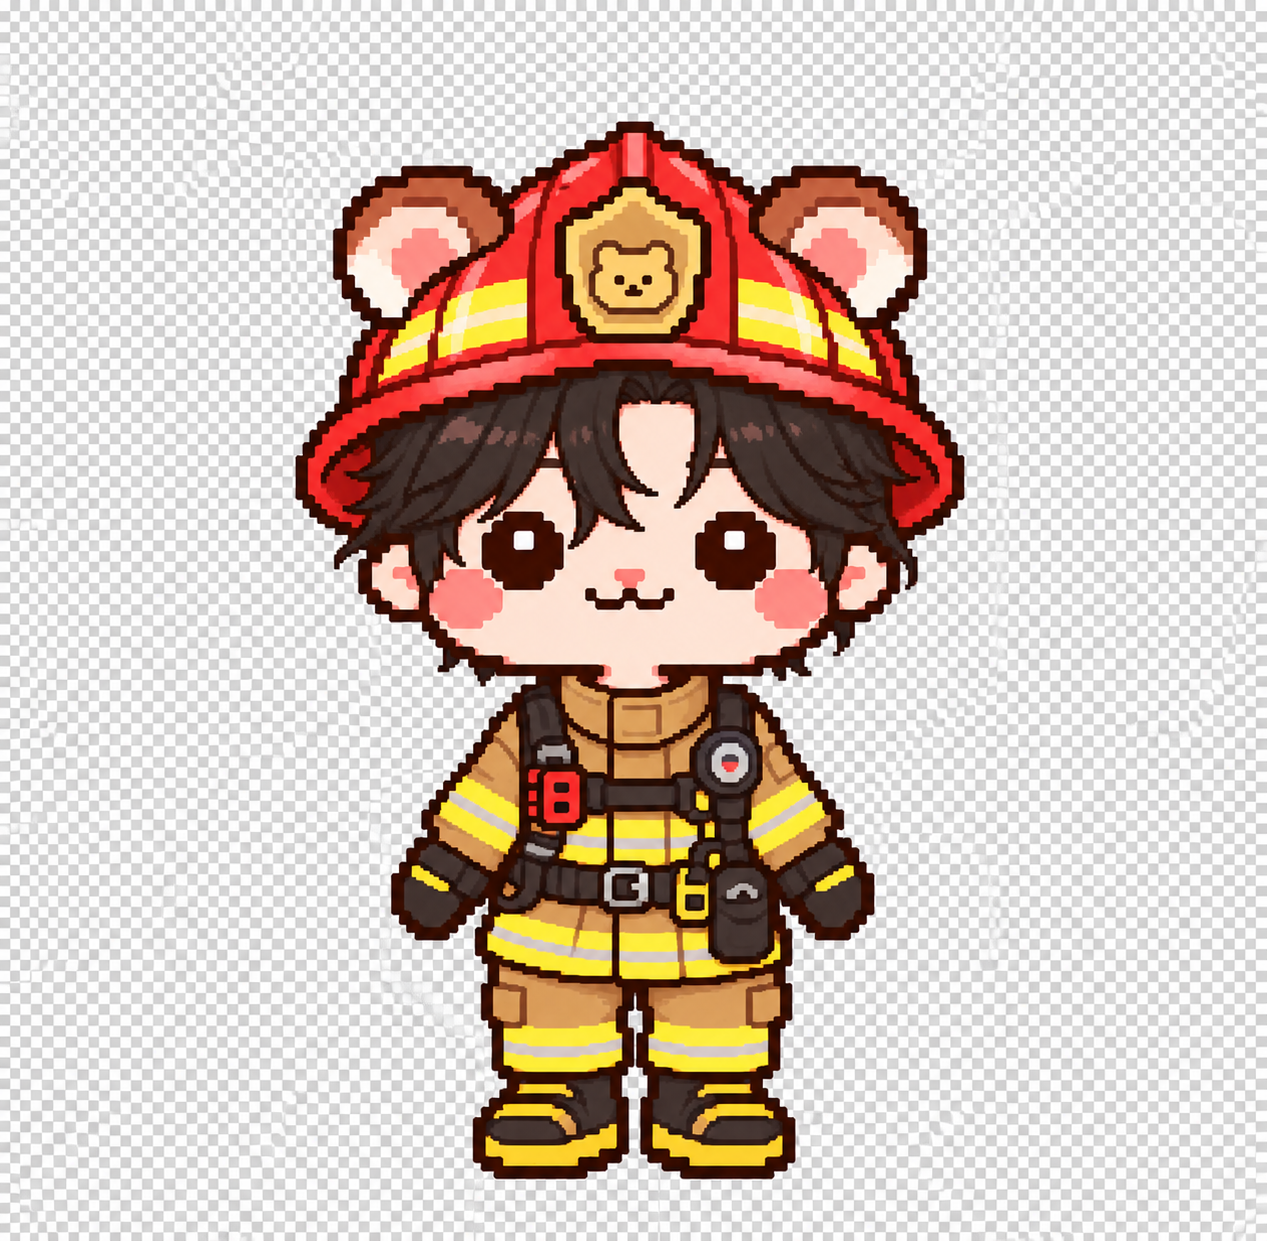
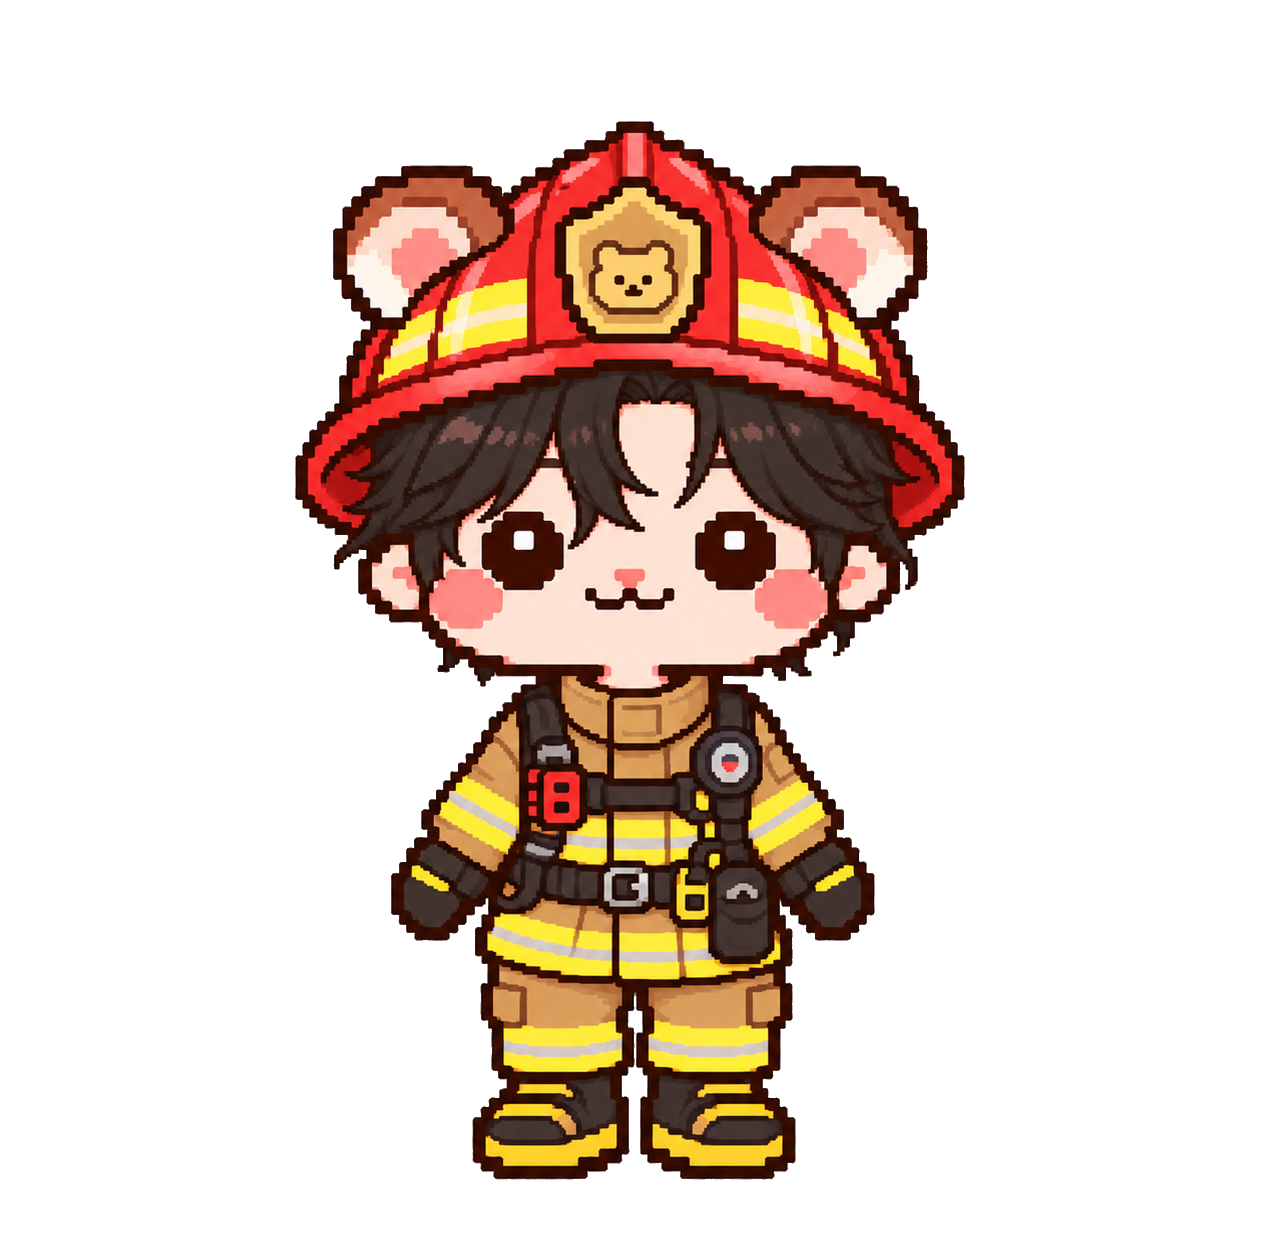
Make male character backgrounds transparent and remeasure art margins
- man/character (3), (4), (12), (15): remove baked-in fake checkerboard;
  (8): remove solid black background. Border flood-fill keeps colours
  inside the outline (white shirt, grey plaid, black hoodie)
- Regenerate character_art_insets for all 66 woman/ and 17 man/ images so
  male characters also hug walls/floor and get a tight selection outline
- Add tool/character_art scripts (margin measurement, table generator,
  background removal) for future art updates

diff --git a/tool/character_art/remove_background.swift b/tool/character_art/remove_background.swift
@@ -1,0 +1,78 @@
+import Foundation
+import CoreGraphics
+import ImageIO
+import UniformTypeIdentifiers
+// usage: rmbg in.png out.png tolerance pockets(0/1)
+let a = CommandLine.arguments
+let inURL = URL(fileURLWithPath: a[1]), outURL = URL(fileURLWithPath: a[2])
+let tol = Int(a[3]) ?? 30
+let pockets = a.count > 4 && a[4] == "1"
+let src = CGImageSourceCreateWithURL(inURL as CFURL, nil)!
+let img = CGImageSourceCreateImageAtIndex(src, 0, nil)!
+let w = img.width, h = img.height
+var d = [UInt8](repeating: 0, count: w*h*4)
+let ctx = CGContext(data: &d, width: w, height: h, bitsPerComponent: 8, bytesPerRow: w*4, space: CGColorSpaceCreateDeviceRGB(), bitmapInfo: CGImageAlphaInfo.premultipliedLast.rawValue)!
+ctx.draw(img, in: CGRect(x: 0, y: 0, width: w, height: h))
+// background colour clusters from the border
+var buckets: [Int: (Int, Int, Int, Int)] = [:]
+func addB(_ i: Int) { let r = Int(d[i]), g = Int(d[i+1]), b = Int(d[i+2]); let k = (r/24)<<16 | (g/24)<<8 | (b/24); let v = buckets[k] ?? (0,0,0,0); buckets[k] = (v.0+r, v.1+g, v.2+b, v.3+1) }
+var nb = 0
+for x in 0..<w { addB(x*4); addB(((h-1)*w+x)*4); nb += 2 }
+for y in 0..<h { addB(y*w*4); addB((y*w+w-1)*4); nb += 2 }
+let centers = buckets.values.filter { $0.3 * 100 / nb >= 8 }.map { ($0.0/$0.3, $0.1/$0.3, $0.2/$0.3) }
+FileHandle.standardError.write("centers \(centers)\n".data(using: .utf8)!)
+func dist(_ i: Int, _ c: (Int,Int,Int)) -> Int { max(abs(Int(d[i])-c.0), abs(Int(d[i+1])-c.1), abs(Int(d[i+2])-c.2)) }
+let neutralOnly = a.count > 5 ? Int(a[5]) ?? -1 : -1
+func isBg(_ p: Int) -> Bool { let i = p*4
+  if neutralOnly >= 0 { let mx = max(d[i], d[i+1], d[i+2]), mn = min(d[i], d[i+1], d[i+2]); if Int(mx) - Int(mn) > neutralOnly { return false } }
+  return centers.contains { dist(i, $0) <= tol } }
+func nearest(_ p: Int) -> Int { let i = p*4; var best = 0, bd = 999; for (k, c) in centers.enumerated() { let dd = dist(i, c); if dd < bd { bd = dd; best = k } }; return best }
+var removed = [Bool](repeating: false, count: w*h)
+var stack: [Int] = []
+func seed(_ p: Int) { if !removed[p] && isBg(p) { removed[p] = true; stack.append(p) } }
+for x in 0..<w { seed(x); seed((h-1)*w+x) }
+for y in 0..<h { seed(y*w); seed(y*w+w-1) }
+func flood() { while let p = stack.popLast() { let x = p % w, y = p / w
+  if x > 0 { seed(p-1) }; if x < w-1 { seed(p+1) }; if y > 0 { seed(p-w) }; if y < h-1 { seed(p+w) } } }
+flood()
+var pocketCount = 0
+if pockets && centers.count >= 2 {
+  // enclosed checkerboard pockets: bg-coloured components that mix both checker tones
+  var seen = removed
+  for p0 in 0..<(w*h) where !seen[p0] && isBg(p0) {
+    var comp: [Int] = [p0]; seen[p0] = true; var idx = 0; var tones = [Int](repeating: 0, count: centers.count)
+    while idx < comp.count { let p = comp[idx]; idx += 1; tones[nearest(p)] += 1; let x = p % w, y = p / w
+      for q in [x > 0 ? p-1 : -1, x < w-1 ? p+1 : -1, y > 0 ? p-w : -1, y < h-1 ? p+w : -1] where q >= 0 && !seen[q] && isBg(q) { seen[q] = true; comp.append(q) } }
+    let sorted = tones.sorted(by: >)
+    if comp.count > 200 && sorted[1] * 100 / comp.count >= 20 { for p in comp { removed[p] = true }; pocketCount += 1 }
+  }
+}
+// edge cleanup: neutral, light-ish pixels touching removed background
+let loose = tol + 25
+let minL = (centers.map { min($0.0, $0.1, $0.2) }.min() ?? 0) - 40
+for _ in 0..<3 {
+  var add: [Int] = []
+  for p in 0..<(w*h) where !removed[p] {
+    let x = p % w, y = p / w
+    let touch = (x > 0 && removed[p-1]) || (x < w-1 && removed[p+1]) || (y > 0 && removed[p-w]) || (y < h-1 && removed[p+w])
+    if !touch { continue }
+    let i = p*4; let mx = Int(max(d[i], d[i+1], d[i+2])), mn = Int(min(d[i], d[i+1], d[i+2]))
+    if mx - mn <= 12 && mn >= minL && centers.contains(where: { dist(i, $0) <= loose }) { add.append(p) }
+  }
+  if add.isEmpty { break }
+  for p in add { removed[p] = true }
+}
+// tiny opaque specks floating in removed area
+var seen2 = removed
+for p0 in 0..<(w*h) where !seen2[p0] {
+  var comp = [p0]; seen2[p0] = true; var idx = 0
+  while idx < comp.count { let p = comp[idx]; idx += 1; let x = p % w, y = p / w
+    for q in [x > 0 ? p-1 : -1, x < w-1 ? p+1 : -1, y > 0 ? p-w : -1, y < h-1 ? p+w : -1] where q >= 0 && !seen2[q] { seen2[q] = true; comp.append(q) } }
+  if comp.count <= 60 { for p in comp { removed[p] = true } }
+}
+var n = 0
+for p in 0..<(w*h) where removed[p] { d[p*4] = 0; d[p*4+1] = 0; d[p*4+2] = 0; d[p*4+3] = 0; n += 1 }
+FileHandle.standardError.write("removed \(n*100/(w*h))% pockets \(pocketCount)\n".data(using: .utf8)!)
+let out = ctx.makeImage()!
+let dst = CGImageDestinationCreateWithURL(outURL as CFURL, UTType.png.identifier as CFString, 1, nil)!
+CGImageDestinationAddImage(dst, out, nil); CGImageDestinationFinalize(dst)

diff --git a/lib/data/character_art_insets.dart b/lib/data/character_art_insets.dart
@@ -1,4 +1,4 @@
-// GENERATED from assets/images/character alpha bounds — rerun the
+// GENERATED from assets/images/character/{woman,man} alpha bounds — rerun the
 // measurement script if character art changes.
 //
 // Transparent margin of each image as a fraction of its width/height.
@@ -21,8 +21,7 @@ class CharacterArtInsets {
 
   static CharacterArtInsets forAsset(String assetPath) {
     final file = assetPath.split('/').last;
-    // Male files reuse some female filenames. Those measured margins are the
-    // woman art, so a man sprite falls back to the image box.
+    // Male files reuse some female filenames, so they are keyed 'man/<file>'.
     if (assetPath.contains('/man/')) return _byFile['man/$file'] ?? none;
     return _byFile[file] ?? none;
   }
@@ -46,6 +45,7 @@ class CharacterArtInsets {
   }
 
   static const Map<String, CharacterArtInsets> _byFile = {
+    // woman/ (looked up by file name)
     'character (1).png': CharacterArtInsets(1.0210, 0.233, 0.252, 0.160, 0.072),
     'character (10).png': CharacterArtInsets(1.0218, 0.024, 0.017, 0.006, 0.024),
     'character (11).png': CharacterArtInsets(1.0218, 0.086, 0.039, 0.082, 0.027),
@@ -112,5 +112,23 @@ class CharacterArtInsets {
     'character (9).png': CharacterArtInsets(1.0218, 0.224, 0.224, 0.082, 0.035),
     'character(65).png': CharacterArtInsets(1.0000, 0.245, 0.255, 0.208, 0.132),
     'character.png': CharacterArtInsets(1.0000, 0.242, 0.255, 0.203, 0.125),
+    // man/ (looked up as 'man/<file>'; some names repeat woman files)
+    'man/character (1).png': CharacterArtInsets(1.0218, 0.263, 0.256, 0.089, 0.037),
+    'man/character (10).png': CharacterArtInsets(1.0185, 0.261, 0.263, 0.130, 0.043),
+    'man/character (11).png': CharacterArtInsets(1.0242, 0.258, 0.268, 0.130, 0.046),
+    'man/character (12).png': CharacterArtInsets(1.0218, 0.271, 0.260, 0.116, 0.036),
+    'man/character (13).png': CharacterArtInsets(1.0185, 0.264, 0.278, 0.125, 0.029),
+    'man/character (14).png': CharacterArtInsets(1.0185, 0.263, 0.267, 0.125, 0.026),
+    'man/character (15).png': CharacterArtInsets(1.0218, 0.263, 0.259, 0.073, 0.046),
+    'man/character (2).png': CharacterArtInsets(1.0185, 0.258, 0.265, 0.128, 0.048),
+    'man/character (3).png': CharacterArtInsets(1.0210, 0.233, 0.238, 0.098, 0.049),
+    'man/character (4).png': CharacterArtInsets(1.0218, 0.231, 0.239, 0.124, 0.045),
+    'man/character (5).png': CharacterArtInsets(1.0185, 0.262, 0.269, 0.126, 0.033),
+    'man/character (6).png': CharacterArtInsets(1.0185, 0.258, 0.265, 0.118, 0.029),
+    'man/character (7).png': CharacterArtInsets(1.0185, 0.262, 0.271, 0.129, 0.031),
+    'man/character (8).png': CharacterArtInsets(1.0234, 0.259, 0.268, 0.118, 0.031),
+    'man/character (9).png': CharacterArtInsets(1.0185, 0.246, 0.280, 0.115, 0.053),
+    'man/character(2).png': CharacterArtInsets(1.0218, 0.263, 0.256, 0.089, 0.037),
+    'man/charcter(1).png': CharacterArtInsets(1.0185, 0.264, 0.278, 0.125, 0.029),
   };
 }

diff --git a/tool/character_art/alpha_bounds.swift b/tool/character_art/alpha_bounds.swift
@@ -1,0 +1,18 @@
+import Foundation
+import CoreGraphics
+import ImageIO
+let dir = CommandLine.arguments[1]
+let files = try! FileManager.default.contentsOfDirectory(atPath: dir).filter { $0.hasSuffix(".png") }.sorted()
+for f in files {
+  let url = URL(fileURLWithPath: dir + "/" + f) as CFURL
+  guard let src = CGImageSourceCreateWithURL(url, nil), let img = CGImageSourceCreateImageAtIndex(src, 0, nil) else { continue }
+  let w = img.width, h = img.height
+  var data = [UInt8](repeating: 0, count: w * h * 4)
+  let ctx = CGContext(data: &data, width: w, height: h, bitsPerComponent: 8, bytesPerRow: w * 4, space: CGColorSpaceCreateDeviceRGB(), bitmapInfo: CGImageAlphaInfo.premultipliedLast.rawValue)!
+  ctx.draw(img, in: CGRect(x: 0, y: 0, width: w, height: h))
+  var minX = w, maxX = -1, minY = h, maxY = -1
+  for y in 0..<h { for x in 0..<w where data[(y * w + x) * 4 + 3] > 24 {
+    if x < minX { minX = x }; if x > maxX { maxX = x }; if y < minY { minY = y }; if y > maxY { maxY = y } } }
+  // fractions of the image: left, right, top, bottom transparent margins (top = first row in memory)
+  print(String(format: "%@\t%dx%d\tL %.3f R %.3f T %.3f B %.3f", f, w, h, Double(minX)/Double(w), Double(w-1-maxX)/Double(w), Double(minY)/Double(h), Double(h-1-maxY)/Double(h)))
+}

diff --git a/tool/character_art/gen_insets.py b/tool/character_art/gen_insets.py
@@ -1,0 +1,38 @@
+#!/usr/bin/env python3
+"""Regenerate the _byFile table in lib/data/character_art_insets.dart.
+
+Usage (from the repo root):
+  swiftc -O tool/character_art/alpha_bounds.swift -o /tmp/alpha_bounds
+  python3 tool/character_art/gen_insets.py
+"""
+import re
+import subprocess
+
+DART = 'lib/data/character_art_insets.dart'
+ROOT = 'assets/images/character'
+
+
+def rows(folder, prefix):
+    out = subprocess.run(['/tmp/alpha_bounds', f'{ROOT}/{folder}'],
+                         capture_output=True, text=True, check=True).stdout
+    lines = []
+    for line in out.splitlines():
+        name, size, rest = line.split('\t')
+        w, h = map(int, size.split('x'))
+        left, right, top, bottom = [float(v) for v in re.findall(r'[\d.]+', rest)]
+        lines.append(f"    '{prefix}{name}': CharacterArtInsets("
+                     f"{w / h:.4f}, {left:.3f}, {right:.3f}, {top:.3f}, {bottom:.3f}),")
+    return lines
+
+
+src = open(DART).read()
+start = src.index('  static const Map<String, CharacterArtInsets> _byFile = {')
+end = src.index('  };', start) + len('  };')
+table = (['  static const Map<String, CharacterArtInsets> _byFile = {',
+          '    // woman/ (looked up by file name)']
+         + rows('woman', '')
+         + ["    // man/ (looked up as 'man/<file>'; some names repeat woman files)"]
+         + rows('man', 'man/')
+         + ['  };'])
+open(DART, 'w').write(src[:start] + '\n'.join(table) + src[end:])
+print('updated', DART)

diff --git a/tool/character_art/README.md b/tool/character_art/README.md
@@ -1,0 +1,24 @@
+# Character art tools
+
+Run from the repo root on macOS (Swift comes with Xcode).
+
+**Margin table** — after adding or changing images in
+`assets/images/character/{woman,man}`:
+
+```sh
+swiftc -O tool/character_art/alpha_bounds.swift -o /tmp/alpha_bounds
+python3 tool/character_art/gen_insets.py
+```
+
+**Fake/solid background → transparent** (flood-fills from the image border,
+so the character outline protects colours inside it):
+
+```sh
+swiftc -O tool/character_art/remove_background.swift -o /tmp/rmbg
+# rmbg <in> <out> <tolerance> <pockets 0|1> [neutralMaxSpread]
+/tmp/rmbg in.png out.png 30 1 8   # fake checkerboard
+/tmp/rmbg in.png out.png 18 0     # solid black
+```
+
+Use `pockets 0` when the character itself has grey checks/plaid. Always check
+the result on a bright background before replacing the original.
